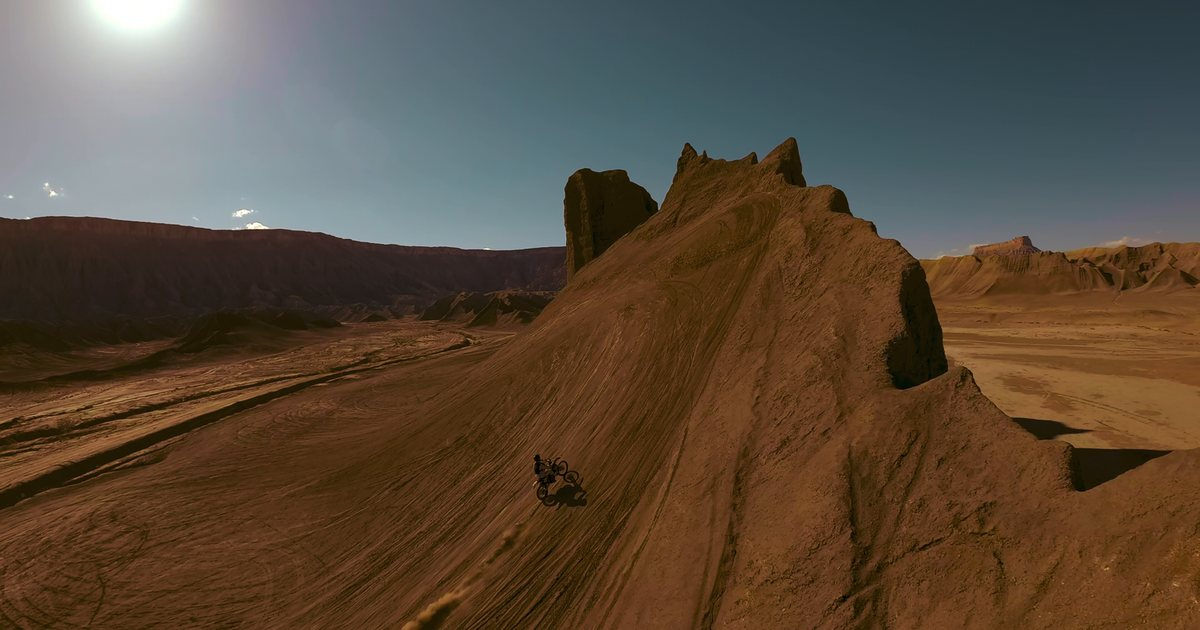
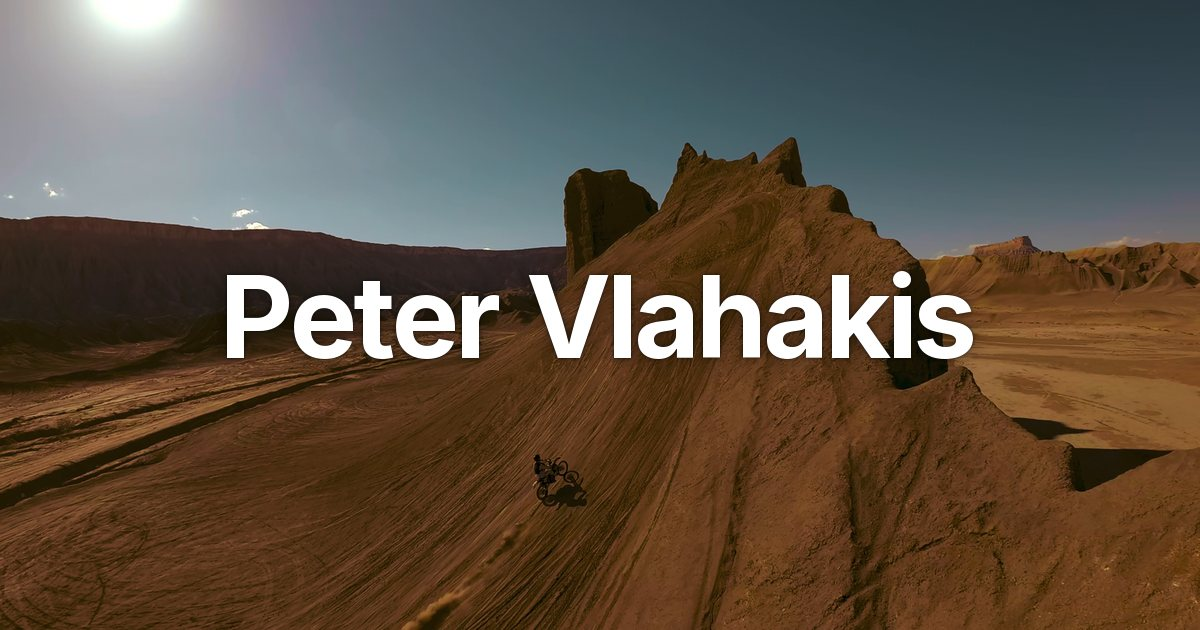
Link preview: name on the Open Graph image

Changed region(s): [[0.185, 0.4222, 0.8325, 0.573]]

diff --git a/baja.html b/baja.html
@@ -11,10 +11,10 @@
   <meta property="og:title" content="Baja SAE | Peter Vlahakis">
   <meta property="og:description" content="Longhorn Baja Racing's inaugural season: chassis design, analysis, and fabrication, and the parts built as Manufacturing Lead.">
   <meta property="og:url" content="https://petervlahakis.com/baja.html">
-  <meta property="og:image" content="https://petervlahakis.com/assets/img/og.jpg">
+  <meta property="og:image" content="https://petervlahakis.com/assets/img/og.jpg?v=2">
   <meta property="og:image:width" content="1200">
   <meta property="og:image:height" content="630">
-  <meta property="og:image:alt" content="Dirt bike rider climbing a sandstone dome, seen from above">
+  <meta property="og:image:alt" content="Peter Vlahakis, over an aerial view of a dirt bike rider climbing a sandstone dome">
   <meta name="twitter:card" content="summary_large_image">
   <link rel="icon" href="favicon.svg" type="image/svg+xml">
   <link rel="preload" href="assets/fonts/inter-latin-wght-normal.woff2" as="font" type="font/woff2" crossorigin>

diff --git a/index.html b/index.html
@@ -11,10 +11,10 @@
   <meta property="og:title" content="Peter Vlahakis | Aspiring Automotive Engineer">
   <meta property="og:description" content="Engineering portfolio: Baja SAE chassis design and fabrication, and CNC-machined parts.">
   <meta property="og:url" content="https://petervlahakis.com/">
-  <meta property="og:image" content="https://petervlahakis.com/assets/img/og.jpg">
+  <meta property="og:image" content="https://petervlahakis.com/assets/img/og.jpg?v=2">
   <meta property="og:image:width" content="1200">
   <meta property="og:image:height" content="630">
-  <meta property="og:image:alt" content="Dirt bike rider climbing a sandstone dome, seen from above">
+  <meta property="og:image:alt" content="Peter Vlahakis, over an aerial view of a dirt bike rider climbing a sandstone dome">
   <meta name="twitter:card" content="summary_large_image">
   <link rel="icon" href="favicon.svg" type="image/svg+xml">
   <link rel="preload" href="assets/fonts/inter-latin-wght-normal.woff2" as="font" type="font/woff2" crossorigin>

diff --git a/projects.html b/projects.html
@@ -11,10 +11,10 @@
   <meta property="og:title" content="Projects | Peter Vlahakis">
   <meta property="og:description" content="Machined and fabricated parts: designed, programmed in CAM, and made start to finish.">
   <meta property="og:url" content="https://petervlahakis.com/projects.html">
-  <meta property="og:image" content="https://petervlahakis.com/assets/img/og.jpg">
+  <meta property="og:image" content="https://petervlahakis.com/assets/img/og.jpg?v=2">
   <meta property="og:image:width" content="1200">
   <meta property="og:image:height" content="630">
-  <meta property="og:image:alt" content="Dirt bike rider climbing a sandstone dome, seen from above">
+  <meta property="og:image:alt" content="Peter Vlahakis, over an aerial view of a dirt bike rider climbing a sandstone dome">
   <meta name="twitter:card" content="summary_large_image">
   <link rel="icon" href="favicon.svg" type="image/svg+xml">
   <link rel="preload" href="assets/fonts/inter-latin-wght-normal.woff2" as="font" type="font/woff2" crossorigin>

diff --git a/404.html b/404.html
@@ -10,7 +10,7 @@
   <meta property="og:site_name" content="Peter Vlahakis">
   <meta property="og:title" content="Page not found | Peter Vlahakis">
   <meta property="og:description" content="That page does not exist.">
-  <meta property="og:image" content="https://petervlahakis.com/assets/img/og.jpg">
+  <meta property="og:image" content="https://petervlahakis.com/assets/img/og.jpg?v=2">
   <script>
     // GitHub Pages serves this file for any missing path. The relative links below only
     // resolve from the site root, so a missing nested path steps back up to it first.

diff --git a/tools/build_hero.py b/tools/build_hero.py
@@ -2,11 +2,12 @@
 """Cut and encode the site's background clips from Swingarm City.mov.
 
     .venv\\Scripts\\python tools\\build_hero.py [--clip hero|projects|baja|all] [--source PATH]
-                                              [--start S] [--end S] [--xfade S]
+                                              [--start S] [--end S] [--xfade S] [--og-only]
 
 Clips (see CLIPS below; --start/--end/--xfade override the chosen clip's defaults):
   hero      Home hero, 1:10-1:33. Writes assets/video/hero-1080.mp4, hero-720.mp4 and
-            hero-poster.webp, plus the Open Graph image assets/img/og.jpg (cut from the poster).
+            hero-poster.webp, plus the Open Graph image assets/img/og.jpg (cut from the poster,
+            with the name drawn on it as the hero shows it). --og-only rebuilds just og.jpg.
   projects  Projects page side column, 0:35-0:50. A tall 912 x 2160 slice of the 4K frame
             whose center follows the ridge, then the rider. Writes side-projects.mp4 + poster.
   baja      Baja page side column, 6:15-6:35. A fixed slice centered on the ridge.
@@ -39,12 +40,21 @@ from fractions import Fraction
 from pathlib import Path
 
 import imageio_ffmpeg
-from PIL import Image
+from PIL import Image, ImageDraw, ImageFilter, ImageFont
 
 SITE = Path(__file__).resolve().parent.parent
 VIDEO_DIR = SITE / "assets" / "video"
 OG_PATH = SITE / "assets" / "img" / "og.jpg"
 FFMPEG = imageio_ffmpeg.get_ffmpeg_exe()
+
+# The name on the Open Graph image, set like the hero's (.hero__name in css/home.css): Inter 700,
+# tracking -0.035em, the two words 0.26em apart, in --text with the --hero-text-halo shadows behind.
+# 114 px is the hero name's size in a 1200 px wide window (--fs-hero is 9.5vw there).
+OG_NAME = ("Peter", "Vlahakis")
+OG_FONT = SITE / "assets" / "fonts" / "inter-latin-wght-normal.woff2"
+OG_SIZE, OG_WEIGHT, OG_TRACKING, OG_WORD_GAP = 114, 700, -0.035, 0.26
+OG_HALO = [(0, 1, 0.70), (0, 4, 0.55), (2, 20, 0.40)]  # --hero-text-halo: (y offset px, blur px, opacity)
+TOKENS = SITE / "css" / "tokens.css"
 
 MB = 1_000_000
 KB = 1_000
@@ -217,6 +227,17 @@ def first_frame(mezz: Path) -> Image.Image:
     return Image.open(io.BytesIO(png)).convert("RGB")
 
 
+def source_first_frame(src: Path, info: dict, clip: dict, height: int) -> Image.Image:
+    """The clip's first frame for --og-only, made the way the full build makes it: a plain seek to
+    --start lands a frame away, because the mezzanine starts early for the loop dissolve. A few
+    seconds of mezzanine are enough (the dissolve length is capped at a quarter of the clip)."""
+    short = dict(clip, end=min(clip["end"], clip["start"] + 4 * clip["xfade"] + 1))
+    with tempfile.TemporaryDirectory() as tmp:
+        mezz = Path(tmp) / "mezzanine.mkv"
+        make_mezzanine(src, info, short, height, mezz)
+        return first_frame(mezz)
+
+
 def save_poster(frame: Image.Image, out: Path, max_width: int, target: int) -> tuple[int, int]:
     if frame.width > max_width:
         frame = frame.resize((max_width, round(frame.height * max_width / frame.width)), Image.LANCZOS)
@@ -229,12 +250,53 @@ def save_poster(frame: Image.Image, out: Path, max_width: int, target: int) -> t
     return buf.tell(), q
 
 
+def token_color(name: str) -> tuple[int, int, int]:
+    """A #rrggbb color token from css/tokens.css, so the palette stays in that one file."""
+    m = re.search(rf"--{name}:\s*#([0-9a-fA-F]{{6}})\s*;", TOKENS.read_text(encoding="utf-8"))
+    if not m:
+        sys.exit(f"css/tokens.css has no #rrggbb value for --{name}")
+    return tuple(int(m.group(1)[i:i + 2], 16) for i in (0, 2, 4))
+
+
+def draw_name(og: Image.Image) -> Image.Image:
+    """The name, centered on the image, with the halo under it."""
+    font = ImageFont.truetype(str(OG_FONT), OG_SIZE)
+    font.set_variation_by_axes([OG_WEIGHT])
+    track, glyphs, x = OG_TRACKING * OG_SIZE, [], 0.0
+    for n, word in enumerate(OG_NAME):
+        if n:
+            x += OG_WORD_GAP * OG_SIZE
+        for i, ch in enumerate(word):
+            # The pen position before ch, kerned against the letter before it, plus the tracking so far
+            glyphs.append((x + font.getlength(word[:i + 1]) - font.getlength(ch) + i * track, ch))
+        x += font.getlength(word) + len(word) * track
+
+    def text_mask(dx: float, dy: float) -> Image.Image:
+        mask = Image.new("L", og.size, 0)
+        pen = ImageDraw.Draw(mask)
+        for gx, ch in glyphs:
+            pen.text((dx + gx, dy), ch, font=font, fill=255, anchor="ls")
+        return mask
+
+    # Center the letters themselves, not the line box (the name has capitals and ascenders, no descenders)
+    left, top, right, bottom = text_mask(0, OG_SIZE).getbbox()
+    mask = text_mask((og.width - (right - left)) / 2 - left, (og.height - (bottom - top)) / 2 - top + OG_SIZE)
+
+    out = og.copy()
+    shade = Image.new("RGB", og.size, token_color("hero-scrim-color"))
+    for dy, blur, opacity in OG_HALO:
+        halo = mask.transform(og.size, Image.AFFINE, (1, 0, 0, 0, 1, -dy)).filter(ImageFilter.GaussianBlur(blur / 2))
+        out = Image.composite(shade, out, halo.point(lambda v: round(v * opacity)))
+    return Image.composite(Image.new("RGB", og.size, token_color("text")), out, mask)
+
+
 def save_og(frame: Image.Image, out: Path) -> int:
     w, h = frame.size
     crop_h = min(h, round(w * 630 / 1200))
     crop_w = round(crop_h * 1200 / 630)
     left, top = (w - crop_w) // 2, (h - crop_h) // 2
     og = frame.crop((left, top, left + crop_w, top + crop_h)).resize((1200, 630), Image.LANCZOS)
+    og = draw_name(og)
     out.parent.mkdir(parents=True, exist_ok=True)
     og.save(out, "JPEG", quality=84, optimize=True, progressive=True)
     return out.stat().st_size
@@ -273,6 +335,7 @@ def main() -> int:
     ap.add_argument("--start", type=float, help="clip start in seconds (overrides the clip's default)")
     ap.add_argument("--end", type=float, help="clip end in seconds (overrides the clip's default)")
     ap.add_argument("--xfade", type=float, help="loop dissolve in seconds; 0 for a hard cut")
+    ap.add_argument("--og-only", action="store_true", help="rebuild only assets/img/og.jpg, without the video")
     args = ap.parse_args()
     src = Path(args.source).resolve()
     if SITE in src.parents:
@@ -294,6 +357,13 @@ def main() -> int:
         for key in ("start", "end", "xfade"):
             if getattr(args, key) is not None:
                 clip[key] = getattr(args, key)
+        if args.og_only:
+            if not clip["og"]:
+                sys.exit(f"{name}: this clip makes no Open Graph image")
+            top = min(max(h for _, heights, _, _ in clip["outputs"] for h in heights), info["height"])
+            og_bytes = save_og(source_first_frame(src, info, clip, top), OG_PATH)
+            print(f"  result og.jpg: 1200x630  {og_bytes / KB:.0f} KB")
+            continue
         if clip["crop"] and info["width"] < SIDE_WIDTH:
             sys.exit(f"{name}: the source is narrower than the {SIDE_WIDTH} px slice")
         ok = build(name, clip, src, info) and ok
